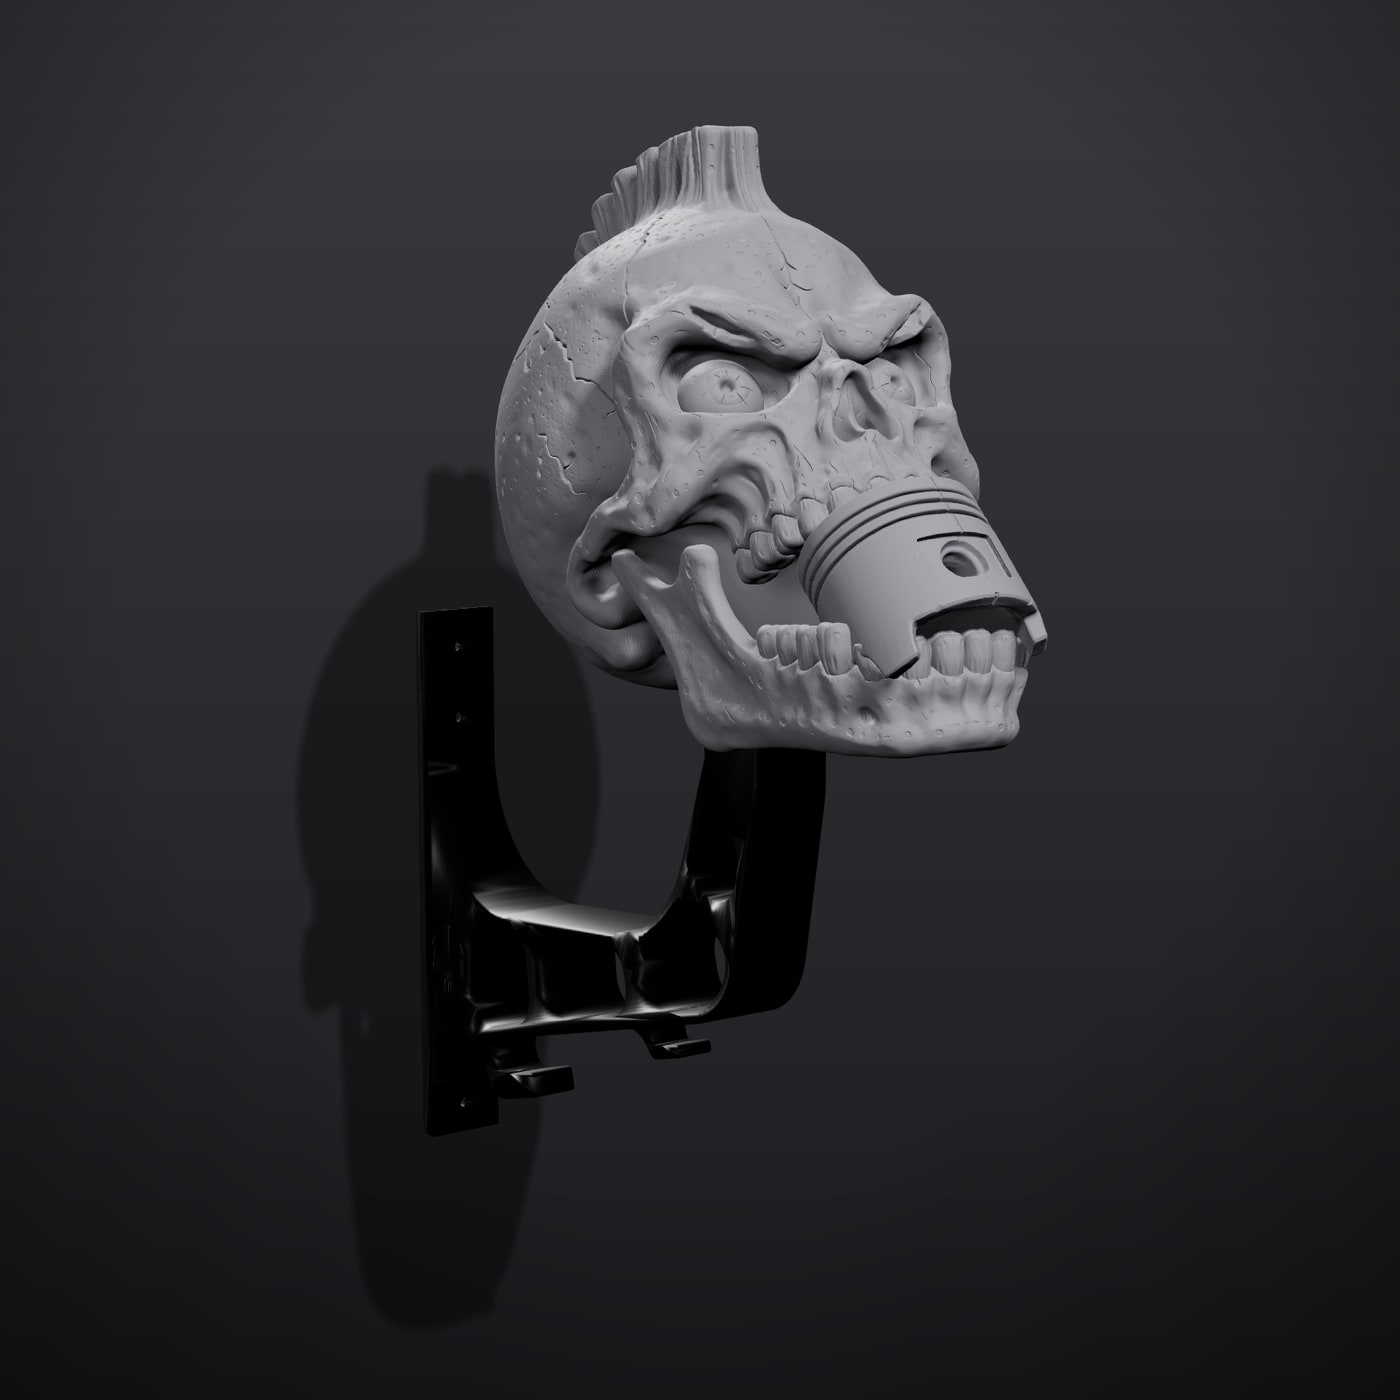
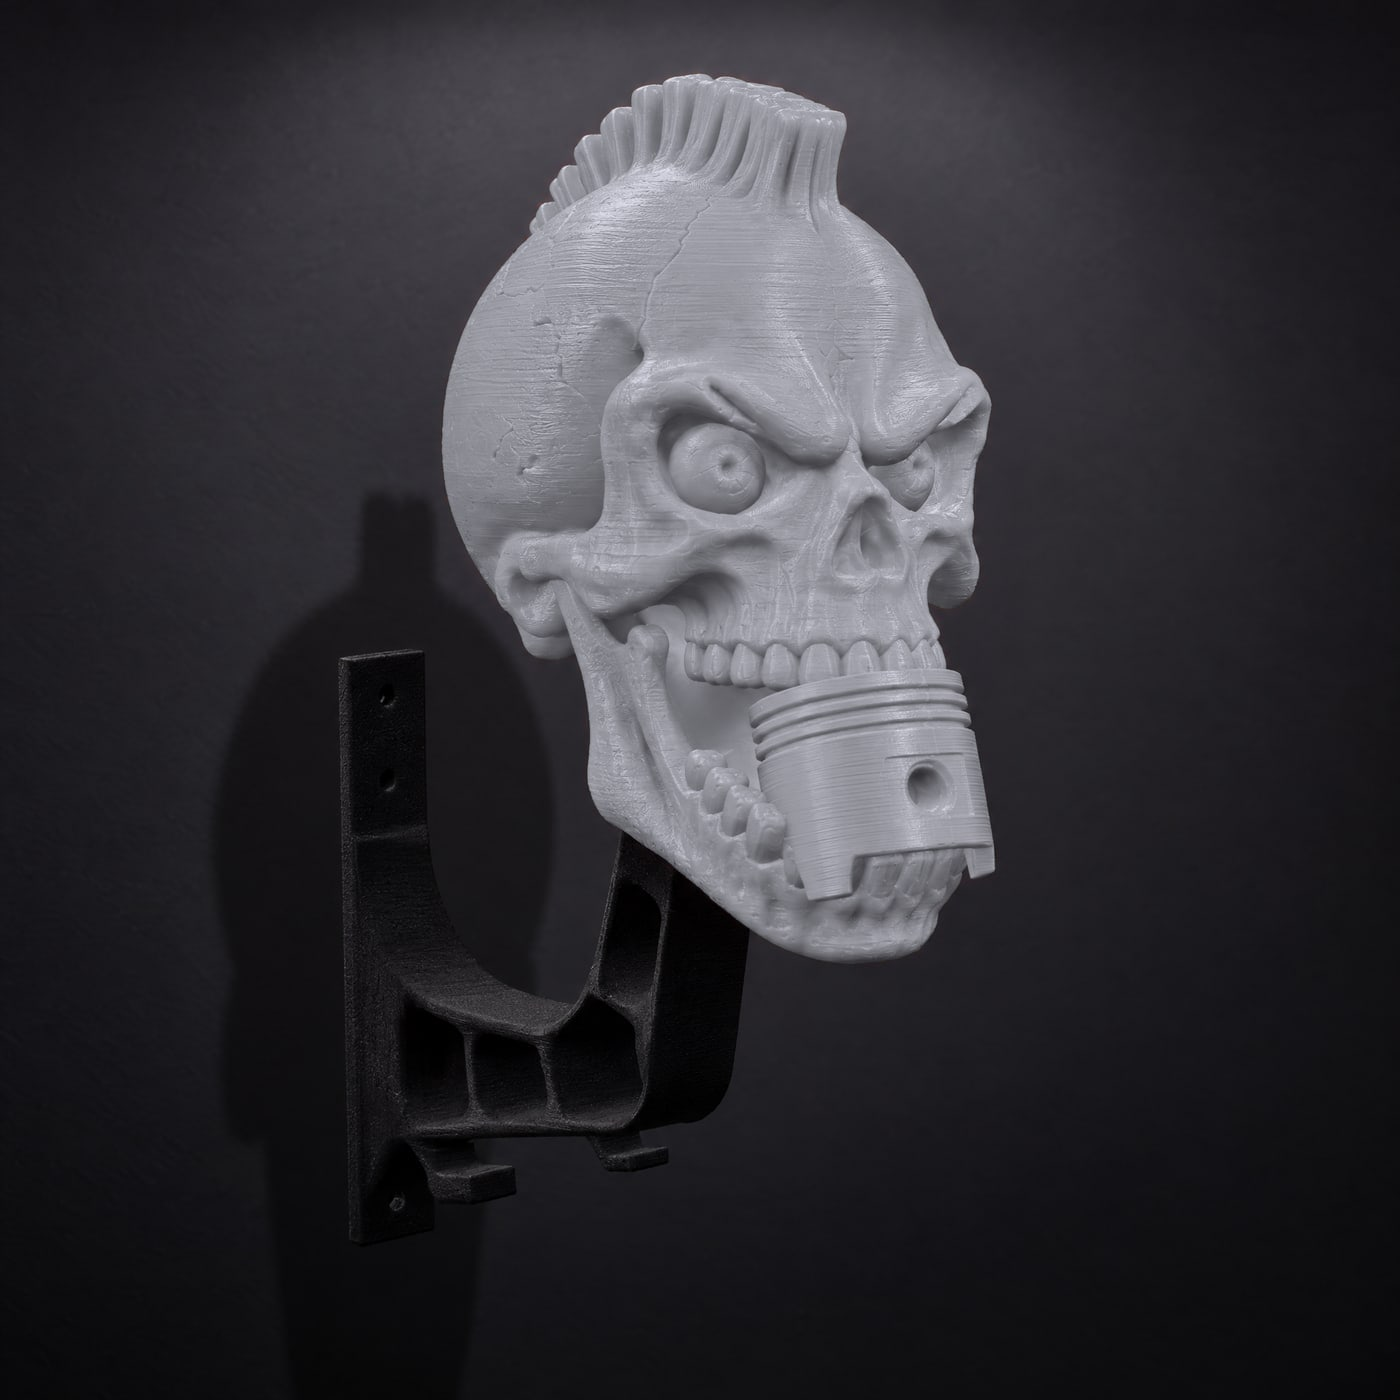
design: the Piston Skull's pictures on its own bracket, as photographs
The pictures showed the skull on the Flame Skull's bracket and sat it
upright with the post 2 cm in. They are now renders of skull-design-2.stl
on its own bracket, seated as the owner's two photos of the real mount
show it: a camera and the seat fitted to both photos by outline, the post
into the underside behind the jaw and the skull tipped 26 degrees forward.
Each render was then given a studio photograph's finish by an image model
and kept its outline (97-99 % overlap). Olive and Ghost Grey are the
orange ones recoloured, with a studio option that also takes the pale
highlights a key light leaves. The swatches show the mounted pose.

The side view waits: the image service refused it for today's limit, and
its old picture showed the wrong bracket, so the gallery has four shots.

diff --git a/features/catalog/catalog.ts b/features/catalog/catalog.ts
@@ -284,10 +284,13 @@ export const PISTON_COLOURWAYS: Colourway[] = [
 ]
 
 /**
- * Its pictures are renders of the print file itself, skull-design-2.stl, on
- * the same bracket as the Flame Skull (hanger.stl), lit as the studio shots
- * are: nothing in them is drawn by an image model, so every groove, tooth and
- * the piston are the real print's. Same framing in every finish.
+ * Its pictures start as renders of the two print files, skull-design-2.stl on
+ * its own bracket (Helmet Hanger 75mm final center hook.stl), seated as the
+ * owner's photos of the real mount show it: the post into the underside
+ * behind the jaw, the skull tipped forward. An image model then gave each the
+ * look of a studio photograph, and each kept the render's outline (97-99 %
+ * overlap). The other finishes are the orange ones recoloured
+ * (scripts/build-piston-colourways.mjs), so all three show the same skull.
  */
 const pistonShot = (name: string, alt: string, caption?: GalleryShot["caption"]): GalleryShot => ({
   alt,
@@ -303,10 +306,6 @@ const PISTON_SHOTS = [
   pistonShot("hero", "Piston skull mount on the wall, three-quarter view"),
   pistonShot("detail", "Close up of the face and the piston clenched in its teeth"),
   pistonShot("front", "Piston skull mount, front view"),
-  pistonShot("side", "Side view: the arm, its hooks and the skull above them", {
-    title: "Hooks under the arm",
-    body: "Gloves and keys hang below while the helmet sits on the skull.",
-  }),
   pistonShot("mohawk", "From above: the mohawk running back over the skull"),
 ]
 
